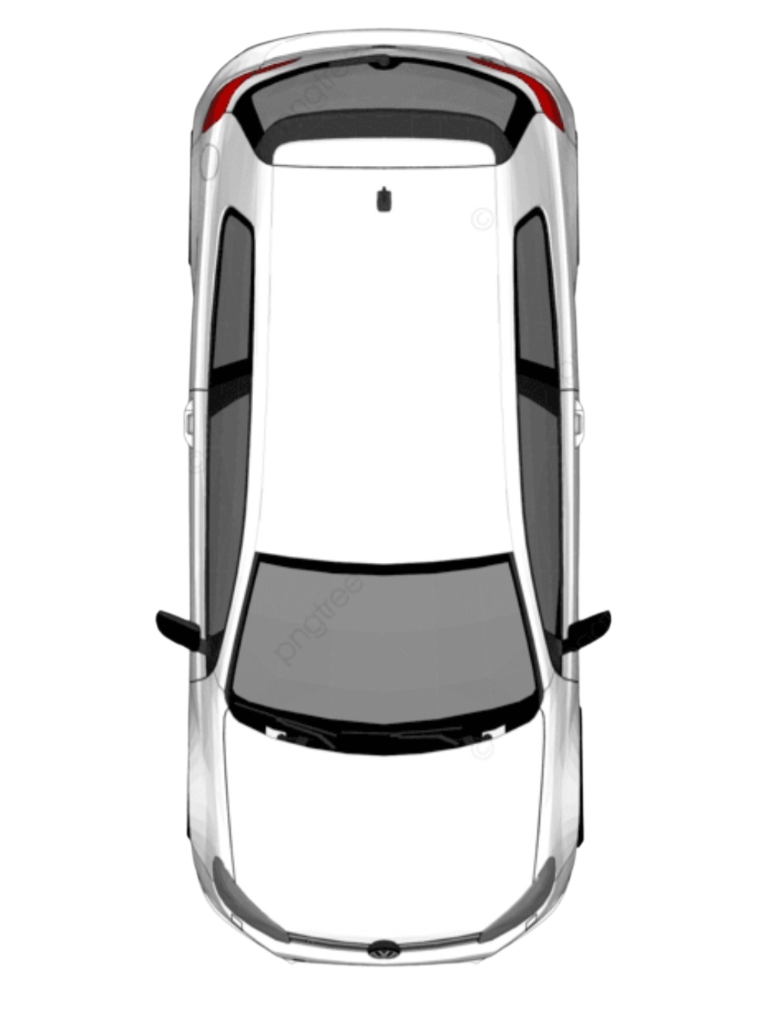
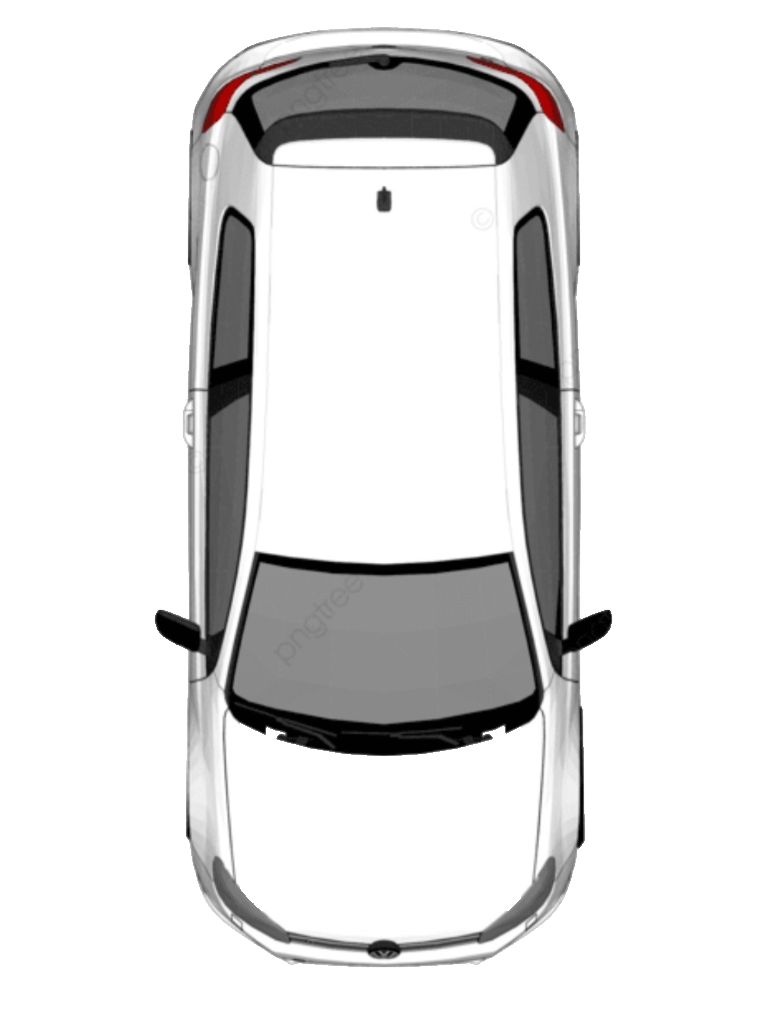
fix(car-hero): Process car_top.png to make bonnet & front bumper 100% solid opaque white and remove backing div

Changed region(s): [[0.7497, 0.5938, 0.8096, 0.6562], [0.2099, 0.5938, 0.2399, 0.625]]

diff --git a/frontend/src/pages/StudentDashboard.jsx b/frontend/src/pages/StudentDashboard.jsx
@@ -802,12 +802,6 @@ const StudentDashboard = () => {
           <div className="relative flex flex-col items-center justify-center w-full pt-1 pb-2">
             {/* Yellow/Gold Circle Background */}
             <div className="relative w-56 h-56 md:w-64 md:h-64 rounded-full bg-amber-400 flex items-center justify-center mt-6 mb-2">
-              {/* Solid Opaque White Car Backing Mask (Prevents yellow background from bleeding through semi-transparent hood & windshield) */}
-              <div 
-                className="absolute bg-white rounded-[45px] pointer-events-none z-[5]" 
-                style={{ width: '70%', height: '88%', top: '6%' }}
-              />
-
               {/* Top-Down Car Image (Aligned so rear roof lands right at top boundary) */}
               <motion.img
                 src="/car_top.png"
